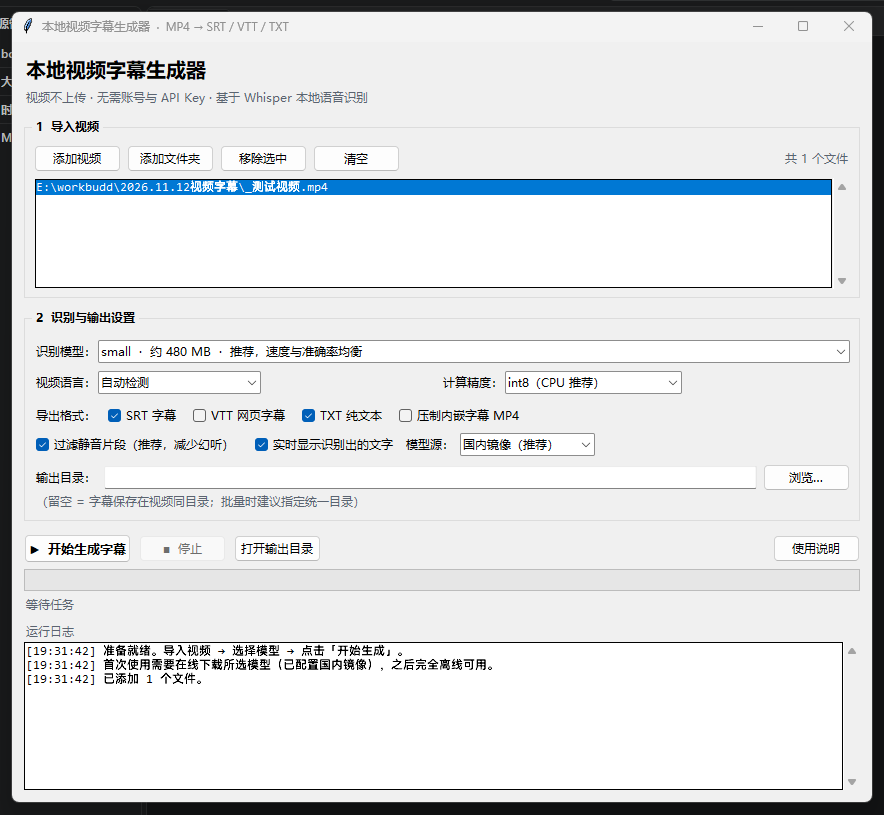
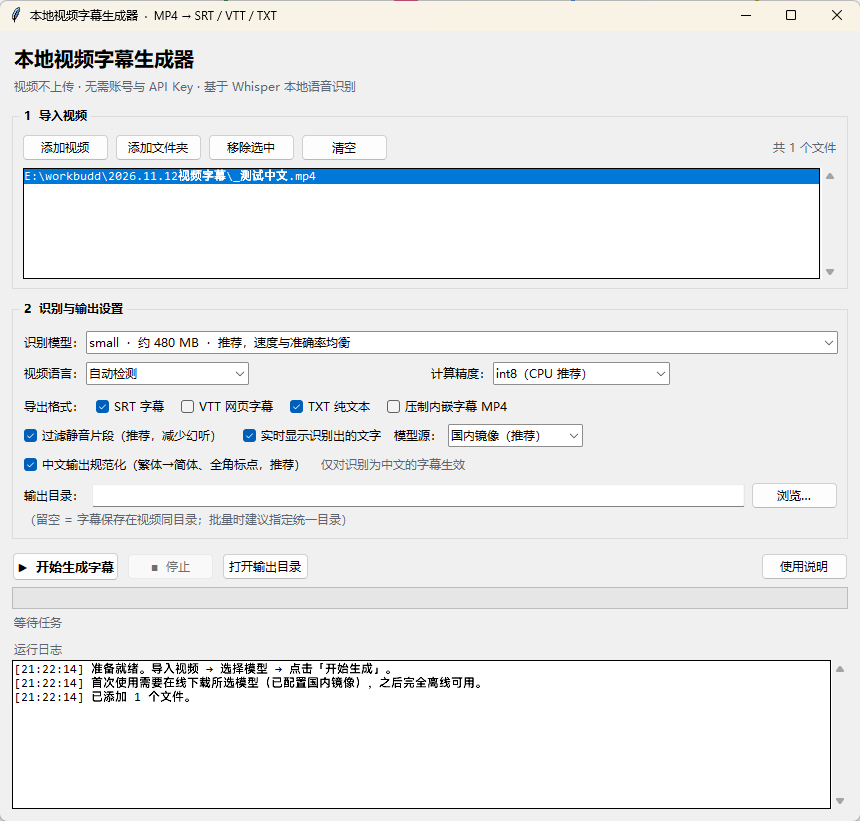
Improve Chinese output and verify with a real Chinese clip
- Add zh_text.py: traditional->simplified, full-width punctuation, CJK space cleanup
- Add a default-on normalization toggle, applied only when language is zh
- Degrade gracefully if zhconv's dictionary is missing from a frozen build
- selftest now exercises the actual normalization instead of just imports
- build.py collects zhconv data (zhcdict.json) so the exe works at runtime
- Benchmark Chinese accuracy on a 36.5s clip: tiny 75.8% / small 94.1%
- Refresh README and screenshot; document git push and packaging pitfalls

Changed region(s): [[0.0, 0.0, 1.0, 1.0], [0.8767, 0.5828, 0.9372, 0.6135]]

diff --git a/subtitle_app.py b/subtitle_app.py
@@ -24,6 +24,8 @@ import traceback
 import subprocess
 from datetime import datetime
 
+import zh_text  # 中文输出后处理：繁转简 / 全角标点
+
 # PyInstaller 冻结后 __file__ 指向临时解包目录，模型缓存会随每次启动丢失，
 # 因此打包运行时一律以 exe 所在目录为基准。
 if getattr(sys, "frozen", False):
@@ -147,7 +149,7 @@ class SubtitleApp:
     def __init__(self, root):
         self.root = root
         self.root.title("本地视频字幕生成器  ·  MP4 → SRT / VTT / TXT")
-        self.root.geometry("860x760")
+        self.root.geometry("860x790")
         self.root.minsize(760, 680)
 
         self.msg_queue = queue.Queue()
@@ -244,6 +246,7 @@ class SubtitleApp:
 
         self.vad_var = tk.BooleanVar(value=True)
         self.show_text_var = tk.BooleanVar(value=True)
+        self.zh_norm_var = tk.BooleanVar(value=True)
         opt = ttk.Frame(sf)
         opt.grid(row=3, column=0, columnspan=4, sticky=tk.W, pady=(2, 4))
         ttk.Checkbutton(opt, text="过滤静音片段（推荐，减少幻听）", variable=self.vad_var).pack(side=tk.LEFT)
@@ -254,15 +257,22 @@ class SubtitleApp:
                      values=["国内镜像（推荐）", "官方源（海外）"],
                      state="readonly", width=16).pack(side=tk.LEFT, padx=4)
 
+        opt2 = ttk.Frame(sf)
+        opt2.grid(row=4, column=0, columnspan=4, sticky=tk.W, pady=(2, 2))
+        ttk.Checkbutton(opt2, text="中文输出规范化（繁体→简体、全角标点，推荐）",
+                        variable=self.zh_norm_var).pack(side=tk.LEFT)
+        ttk.Label(opt2, text="仅对识别为中文的字幕生效",
+                  style="Sub.TLabel").pack(side=tk.LEFT, padx=(10, 0))
+
         out = ttk.Frame(sf)
-        out.grid(row=4, column=0, columnspan=4, sticky=tk.EW, pady=(4, 0))
+        out.grid(row=5, column=0, columnspan=4, sticky=tk.EW, pady=(4, 0))
         ttk.Label(out, text="输出目录：").pack(side=tk.LEFT)
         self.outdir_var = tk.StringVar(value="")
         self.outdir_entry = ttk.Entry(out, textvariable=self.outdir_var)
         self.outdir_entry.pack(side=tk.LEFT, fill=tk.X, expand=True, padx=6)
         ttk.Button(out, text="浏览…", command=self.choose_outdir).pack(side=tk.LEFT)
         ttk.Label(sf, text="（留空 = 字幕保存在视频同目录；批量时建议指定统一目录）",
-                  style="Sub.TLabel").grid(row=5, column=0, columnspan=4, sticky=tk.W)
+                  style="Sub.TLabel").grid(row=6, column=0, columnspan=4, sticky=tk.W)
 
         # ---------- 执行 ----------
         af = ttk.Frame(outer)
@@ -500,6 +510,12 @@ class SubtitleApp:
         duration = float(getattr(info, "duration", 0) or 0)
         self._log(f"   检测语言：{detected}　时长：{duration:.1f} 秒")
 
+        # Whisper 中文输出常混入繁体、半角标点，这里按检测到的语言自动规范化
+        zh_norm = self.zh_norm_var.get() and detected == "zh"
+        zh_conv_at_start = zh_text.has_full_converter()
+        if zh_norm and not zh_conv_at_start:
+            self._log("   ⚠ 未安装 zhconv：仅能规范标点，重跑「安装依赖.bat」可启用繁体转简体")
+
         srt_lines, vtt_lines, txt_lines = [], ["WEBVTT", ""], []
         count = 0
         last_pct = -1
@@ -510,6 +526,8 @@ class SubtitleApp:
             text = (seg.text or "").strip()
             if not text:
                 continue
+            if zh_norm:
+                text = zh_text.normalize_zh(text)
             count += 1
             start, end = float(seg.start), float(seg.end)
             srt_lines.append(f"{count}\n{fmt_time(start)} --> {fmt_time(end)}\n{text}\n")
@@ -523,6 +541,9 @@ class SubtitleApp:
                 if pct != last_pct:
                     self._emit("progress", pct)
                     last_pct = pct
+
+        if zh_norm and zh_conv_at_start and not zh_text.has_full_converter():
+            self._log("   ⚠ 繁简词典不可用，已跳过繁转简（标点规范化仍生效）")
 
         if count == 0:
             self._log("   ⚠ 未识别到语音。请确认视频含音轨，或换更大的模型。")

diff --git a/zh_text.py b/zh_text.py
@@ -1,0 +1,69 @@
+# -*- coding: utf-8 -*-
+"""中文识别结果的后处理：繁体转简体、半角标点转全角、去掉汉字间的空格。
+
+Whisper 的中文输出有两个常见问题：
+  1. 同一段音频里可能忽然整段变成繁体（tiny 模型尤其明显）；
+  2. 标点一律用半角 "," ":"，中文排版应该用 "，" "："。
+
+本模块只依赖标准库；装了 zhconv 时做完整繁简转换，没装时**只**做标点与
+空格规范化（绝不用手工映射表猜字，避免把字改错）。
+"""
+import re
+
+try:
+    import zhconv
+    _HAS_ZHCONV = True
+except Exception:                                    # pragma: no cover - 可选依赖
+    zhconv = None
+    _HAS_ZHCONV = False
+
+_CJK = re.compile(r"[\u3400-\u4dbf\u4e00-\u9fff\uf900-\ufaff]")
+_SPACE_IN_CJK = re.compile(r"(?<=[\u4e00-\u9fff])[ \t]+(?=[\u4e00-\u9fff])")
+_PUNCT = {",": "，", ":": "：", ";": "；", "?": "？", "!": "！"}
+
+
+_ZHCONV_BROKEN = False     # 打包漏收 zhcdict.json 时置位，避免每条字幕都重试/抛错
+
+
+def has_full_converter():
+    """是否装了完整可用的繁简转换库（供日志/自检使用）。"""
+    return _HAS_ZHCONV and not _ZHCONV_BROKEN
+
+
+def to_simplified(text):
+    """繁体 -> 简体；缺库或词典数据缺失时原样返回（降级，不影响字幕生成）。"""
+    global _ZHCONV_BROKEN
+    if not has_full_converter() or not text:
+        return text
+    try:
+        return zhconv.convert(text, "zh-cn")
+    except Exception:                                    # 常见于冻结产物漏收数据文件
+        _ZHCONV_BROKEN = True
+        return text
+
+
+def fix_punctuation(text):
+    """只把「挨着汉字」的半角标点换成全角，避免误伤 1,000 / 3.14 这类数字。"""
+    if not text or not _CJK.search(text):
+        return text
+    chars = list(text)
+    for i, ch in enumerate(chars):
+        if ch in _PUNCT:
+            prev = chars[i - 1] if i > 0 else ""
+            nxt = chars[i + 1] if i + 1 < len(chars) else ""
+            if _CJK.match(prev or " ") or _CJK.match(nxt or " "):
+                chars[i] = _PUNCT[ch]
+    return "".join(chars)
+
+
+def normalize_zh(text, simplified=True, punctuation=True):
+    """中文规范化总入口。非中文文本原样返回。"""
+    if not text or not _CJK.search(text):
+        return text
+    out = text.strip()
+    if simplified:
+        out = to_simplified(out)
+    out = _SPACE_IN_CJK.sub("", out)
+    if punctuation:
+        out = fix_punctuation(out)
+    return out

diff --git a/build.py b/build.py
@@ -15,12 +15,16 @@ import subprocess
 BASE = os.path.dirname(os.path.abspath(__file__))
 NAME = "SubtitleGenerator"          # 用 ASCII 名，避免 CI / 压缩环节出现编码问题
 
-COLLECT_DATA = ["faster_whisper", "tkinterdnd2", "ctranslate2", "onnxruntime"]
+# zhconv 的词典 zhcdict.json 是运行时读取的数据文件，不 collect 会导致
+# 模块能 import、转换却报 FileNotFoundError（冒烟自检会拦下这种坏 exe）。
+COLLECT_DATA = ["faster_whisper", "tkinterdnd2", "ctranslate2", "onnxruntime",
+                "zhconv"]
 COLLECT_BINARIES = ["ctranslate2", "av", "onnxruntime", "tokenizers"]
 COLLECT_SUBMODULES = ["huggingface_hub"]
 HIDDEN_IMPORTS = [
     "faster_whisper", "ctranslate2", "av", "onnxruntime",
     "tokenizers", "huggingface_hub", "tkinterdnd2", "tkinter", "selftest",
+    "zhconv", "zh_text",
 ]
 COPY_METADATA = ["faster_whisper", "huggingface_hub", "tokenizers",
                  "onnxruntime", "ctranslate2", "av"]

diff --git a/selftest.py b/selftest.py
@@ -15,6 +15,7 @@ import sys
 MODULES = (
     "tkinter", "tkinterdnd2", "faster_whisper", "ctranslate2",
     "av", "onnxruntime", "tokenizers", "huggingface_hub", "numpy",
+    "zhconv", "zh_text",
 )
 
 
@@ -57,6 +58,15 @@ def run():
         checks["tcl_init"] = "Tcl " + str(tkinter.Tcl().call("info", "patchlevel"))
     except Exception as e:
         checks["tcl_init"] = f"FAIL: {type(e).__name__}: {e}"
+
+    # 中文后处理不只要能 import，还要真的把繁体/半角标点改对
+    try:
+        import zh_text
+        demo = zh_text.normalize_zh("接下來測試,現在開始")
+        expected = "接下来测试，现在开始"
+        checks["zh_normalize"] = demo if demo == expected else f"FAIL: got {demo!r}"
+    except Exception as e:
+        checks["zh_normalize"] = f"FAIL: {type(e).__name__}: {e}"
 
     ok = not any(str(v).startswith("FAIL") for v in checks.values())
     result = {
